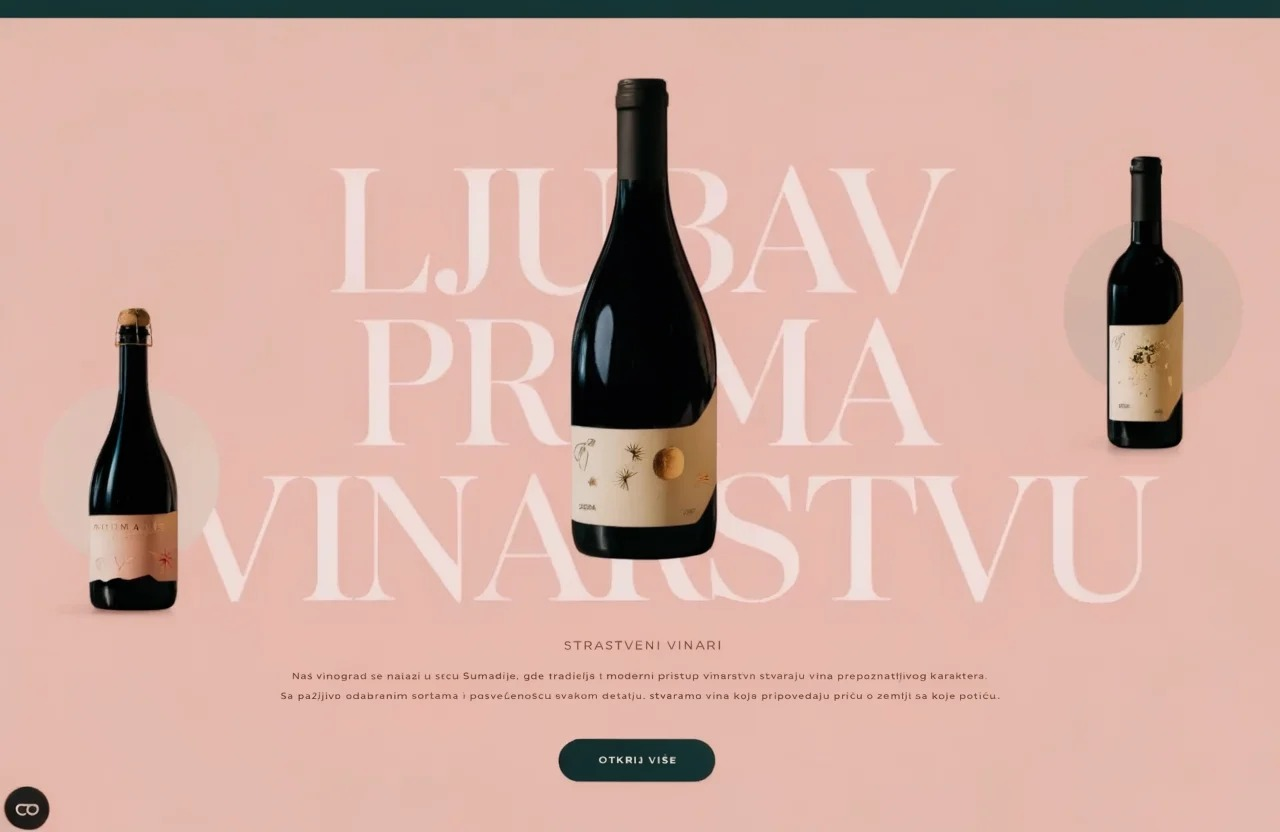
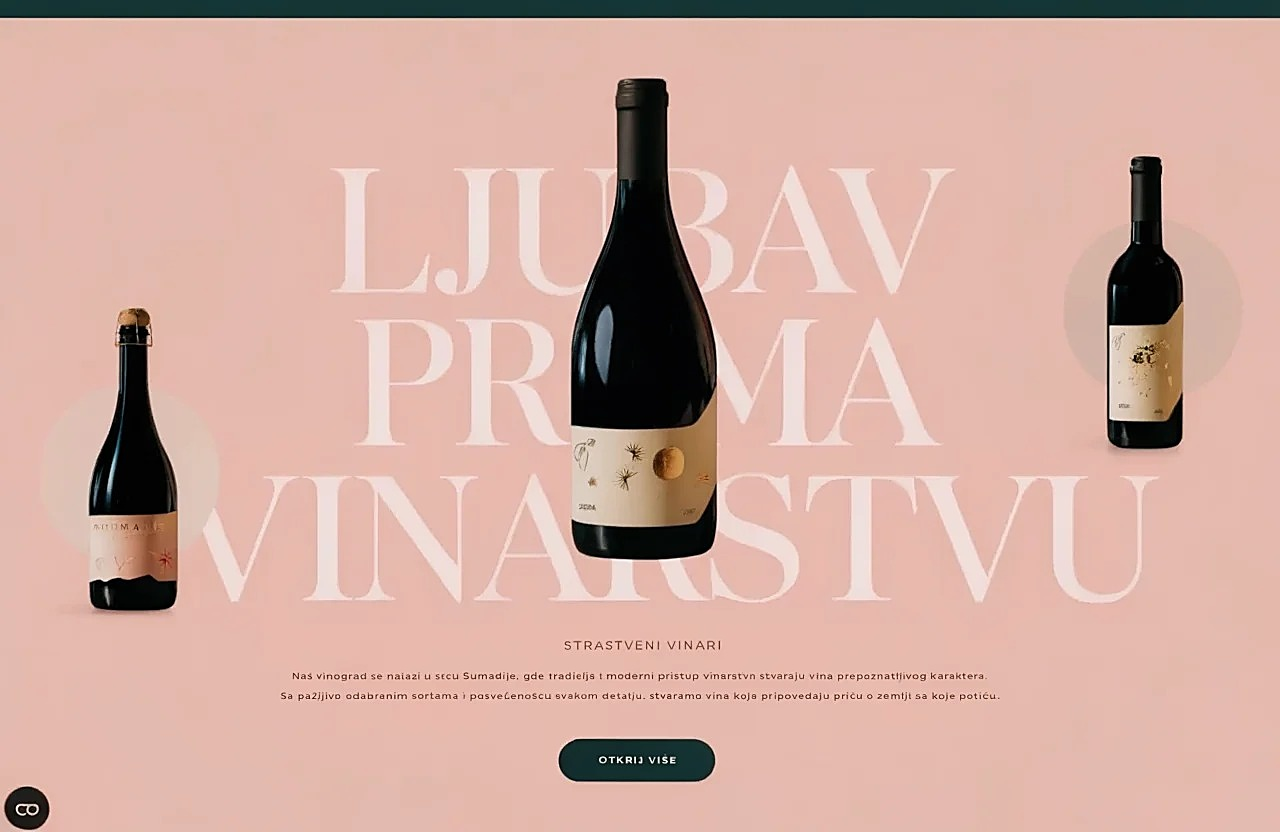
Sharpen wine showcase image, add subtle scroll parallax and a functional CTA
- Re-encode the showcase image with mild unsharp masking at higher JPEG
  quality (same native 1280x832 resolution - no higher-res source exists)
  to reduce compression softness.
- Wrap the image in an aspect-ratio-locked, overflow-hidden parallax
  container; a small scroll-linked translateY (max 12px) gives a gentle
  sense of depth without altering the section's footprint.
- Add an invisible overlay button precisely matching the "OTKRIJ VIŠE"
  pill baked into the image, wired to a goTo()-based slide switcher that
  safely no-ops until a second slide is added.

Claude-Session: https://claude.ai/code/session_01YZqzqpVeW7rAj54wioqrAA

diff --git a/js/main.js b/js/main.js
@@ -242,6 +242,57 @@ document.querySelectorAll('[data-tilt]').forEach(card => {
 })();
 
 /* =====================================================
+   WINE SHOWCASE — subtle scroll parallax on the flat image,
+   plus a slide-switching scaffold for the "OTKRIJ VIŠE" button
+   (a second slide can be dropped in later; goTo() safely no-ops
+   until it exists).
+===================================================== */
+(function showcaseParallax() {
+  const section = document.getElementById('wine-showcase');
+  const image = document.querySelector('#wine-showcase .showcase-static-image');
+  if (!section || !image) return;
+
+  const reduceMotion = window.matchMedia('(prefers-reduced-motion: reduce)').matches;
+  if (reduceMotion) return;
+
+  const maxOffset = 12; // px — kept small and subtle on purpose
+
+  function update() {
+    const rect = section.getBoundingClientRect();
+    const vh = window.innerHeight;
+    if (rect.bottom < 0 || rect.top > vh) return;
+
+    const center = rect.top + rect.height / 2;
+    const progress = Math.min(Math.max((vh / 2 - center) / (vh / 2 + rect.height / 2), -1), 1);
+    image.style.transform = `translateY(${(progress * maxOffset).toFixed(1)}px)`;
+  }
+
+  window.addEventListener('scroll', update, { passive: true });
+  window.addEventListener('resize', update);
+  update();
+})();
+
+(function showcaseSlides() {
+  const wrap = document.getElementById('showcaseSlides');
+  const cta = document.getElementById('showcaseCta');
+  if (!wrap) return;
+
+  const slides = wrap.querySelectorAll('.showcase-slide');
+  let current = 0;
+
+  function goTo(index) {
+    if (index < 0 || index >= slides.length || index === current) return;
+    slides[current].classList.remove('active');
+    slides[index].classList.add('active');
+    current = index;
+  }
+
+  if (cta) {
+    cta.addEventListener('click', () => goTo(current + 1));
+  }
+})();
+
+/* =====================================================
    Small bottle canvas next to the About section
 ===================================================== */
 (function aboutBottle() {

diff --git a/css/style.css b/css/style.css
@@ -639,12 +639,45 @@ h2 {
 }
 #offerings .lead, #reviews .lead, #contact .lead { margin-left: auto; margin-right: auto; }
 
-/* ---------- Wine Showcase (empty, pending new content) ---------- */
+/* ---------- Wine Showcase (static image, subtle parallax) ---------- */
 #wine-showcase { padding: 0; }
-.showcase-static-image {
-  display: block;
+.showcase-slides { position: relative; }
+.showcase-slide {
+  position: relative;
+  display: none;
+}
+.showcase-slide.active { display: block; }
+.showcase-parallax {
+  position: relative;
   width: 100%;
-  height: auto;
+  padding-top: 65%; /* locks the section footprint to the image's 1280:832 ratio */
+  overflow: hidden;
+}
+.showcase-static-image {
+  position: absolute;
+  left: 0;
+  top: -2.5%;
+  width: 100%;
+  height: 105%;
+  object-fit: cover;
+  display: block;
+  will-change: transform;
+}
+@media (prefers-reduced-motion: reduce) {
+  .showcase-static-image { top: 0; height: 100%; }
+}
+.showcase-cta {
+  position: absolute;
+  left: 43.17%;
+  top: 90.26%;
+  width: 13.11%;
+  height: 6.17%;
+  background: transparent;
+  border: none;
+  padding: 0;
+  margin: 0;
+  cursor: pointer;
+  z-index: 2;
 }
 
 /* About */

diff --git a/index.html b/index.html
@@ -147,7 +147,14 @@
 </section>
 
 <section id="wine-showcase">
-  <img src="images/wine-showcase-static.jpg" alt="Ljubav prema vinarstvu" class="showcase-static-image">
+  <div class="showcase-slides" id="showcaseSlides">
+    <div class="showcase-slide active" data-slide="0">
+      <div class="showcase-parallax" id="showcaseParallax">
+        <img src="images/wine-showcase-static.jpg" alt="Ljubav prema vinarstvu" class="showcase-static-image">
+      </div>
+      <button type="button" class="showcase-cta" id="showcaseCta" aria-label="Otkrij više"></button>
+    </div>
+  </div>
 </section>
 
 <main>
